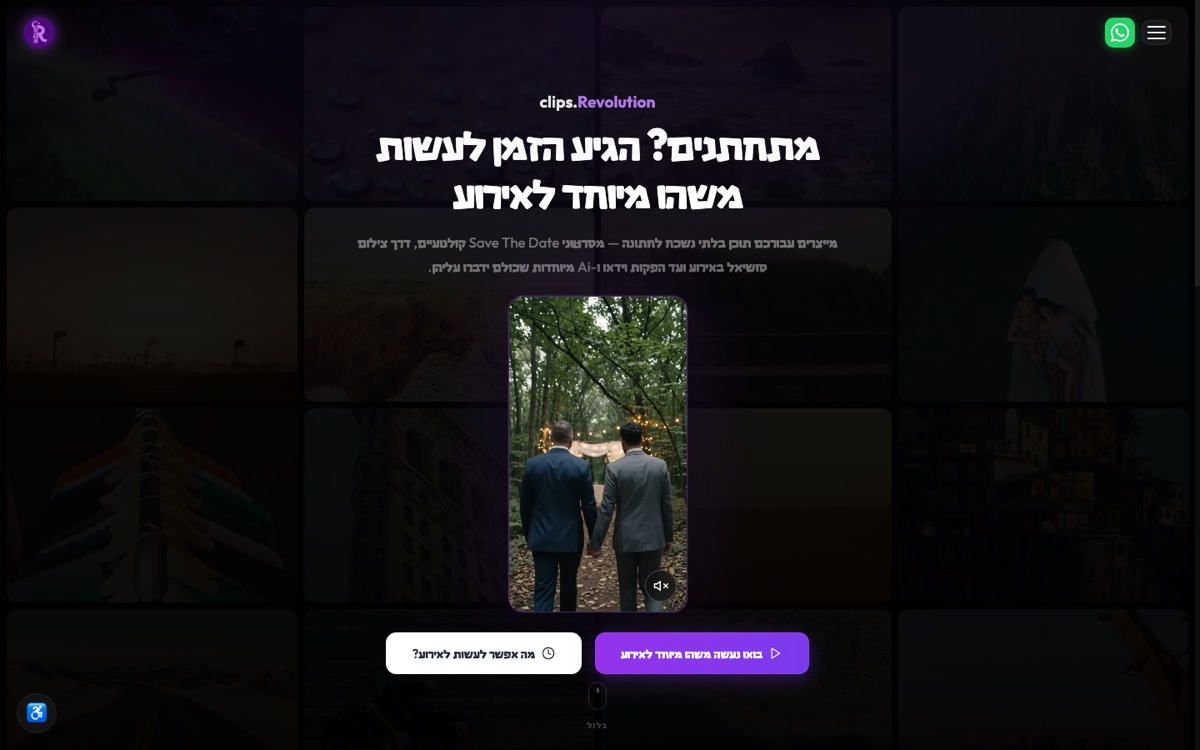
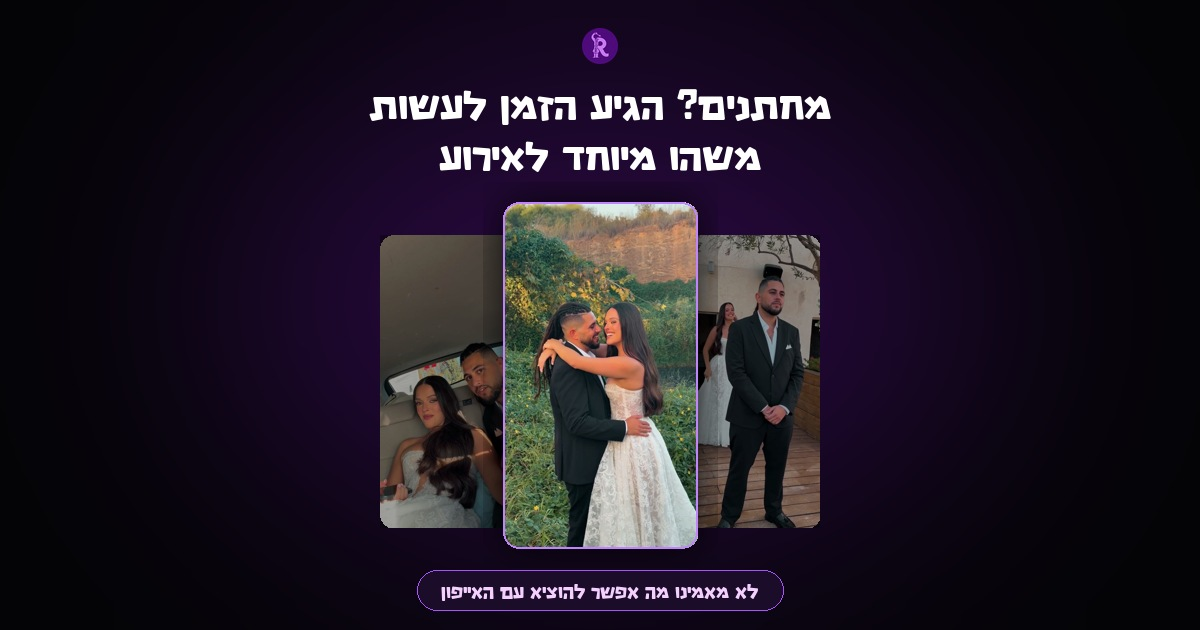
fix(weddings): update section title to 'סרט חתונה קולנועי ב-Ai' and update Twitter/OpenGraph social preview card to v2

diff --git a/weddings.html b/weddings.html
@@ -10,15 +10,15 @@
   <meta property="og:url" content="https://www.clipsrevolution.com/weddings">
   <meta property="og:title" content="מתחתנים? הגיע הזמן לעשות משהו מיוחד לאירוע | clips.Revolution">
   <meta property="og:description" content="צילום סושיאל לחתונות מהאייפון שמתעד את הרגעים הכי קטנים, סרטוני Save The Date קולנועיים והפקות וידאו ו-Ai מיוחדות לזוג ומתנה מהחברים.">
-  <meta property="og:image" content="https://www.clipsrevolution.com/weddings-social-preview.jpg">
+  <meta property="og:image" content="https://www.clipsrevolution.com/weddings-social-preview-v2.jpg">
   <meta property="og:image:type" content="image/jpeg">
   <meta property="og:image:width" content="1200">
-  <meta property="og:image:height" content="750">
+  <meta property="og:image:height" content="630">
   <meta name="twitter:card" content="summary_large_image">
   <meta name="twitter:title" content="מתחתנים? הגיע הזמן לעשות משהו מיוחד לאירוע | clips.Revolution">
-  <meta name="twitter:description" content="צילום סושיאל לחתונות מהאייפון שמתעד את הרגעים הכי קטנים, סרטוני Save The Date קולנועיים והפקות וידאו ו-Ai מיוחדות לזוג ומתנה מהחברים.">
-  <meta name="twitter:image" content="https://www.clipsrevolution.com/weddings-social-preview.jpg">
-  <meta name="thumbnail" content="https://www.clipsrevolution.com/weddings-social-preview.jpg">
+  <meta name="twitter:description" content="צילום סושיאל לחתונות מהאייפון שמתעד את הרגעים הכי קטנים, סרטוני Save The Date קולנועיים והפקות וידאו ו-Ai מיוחדות לחתונה.">
+  <meta name="twitter:image" content="https://www.clipsrevolution.com/weddings-social-preview-v2.jpg">
+  <meta name="thumbnail" content="https://www.clipsrevolution.com/weddings-social-preview-v2.jpg">
   <link rel="icon" href="/favicon-v5.ico" sizes="any">
   <link rel="icon" type="image/png" sizes="48x48" href="/favicon-48-v5.png">
   <link rel="icon" type="image/png" sizes="32x32" href="/favicon-32-v5.png">
@@ -447,7 +447,7 @@
 
           <p class="section-label" style="text-align:center;">מתנה מושלמת מהחברים לזוג</p>
           <h2 class="section-title" id="couple-story-title" style="text-align:center;">
-            <span class="grad">הסיפור של הזוג</span> בסרט קולנועי ב-Ai
+            סרט חתונה <span class="grad">קולנועי ב-Ai</span>
           </h2>
           <p class="section-sub" style="text-align:center; margin: 0 auto 1.5rem; max-width: 660px;">
             הפקה מיוחדת שמחברת את החוויות, הבדיחות הפרטיות והרגעים של הזוג לסרט קולנועי ב-Ai להקרנה באולם — ההפתעה הכי מקורית שחברים או משפחה יכולים לעשות.
@@ -464,7 +464,7 @@
               playsinline
               preload="none"
               onclick="toggleMute('tal-omri-video', document.getElementById('tal-omri-sound-btn'))"
-              aria-label="הסיפור של טל ועומרי - סרט קולנועי ב-Ai כמתנה לזוג"
+              aria-label="סרט חתונה קולנועי ב-Ai כמתנה לזוג"
               style="cursor: pointer;"
             ></video>
             <button
